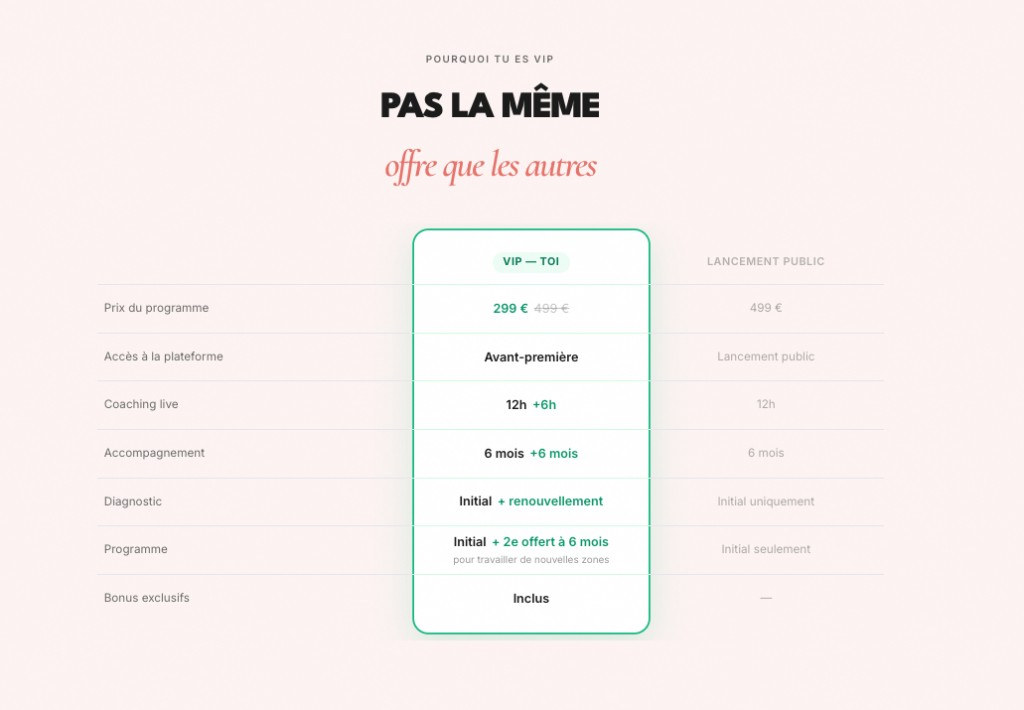
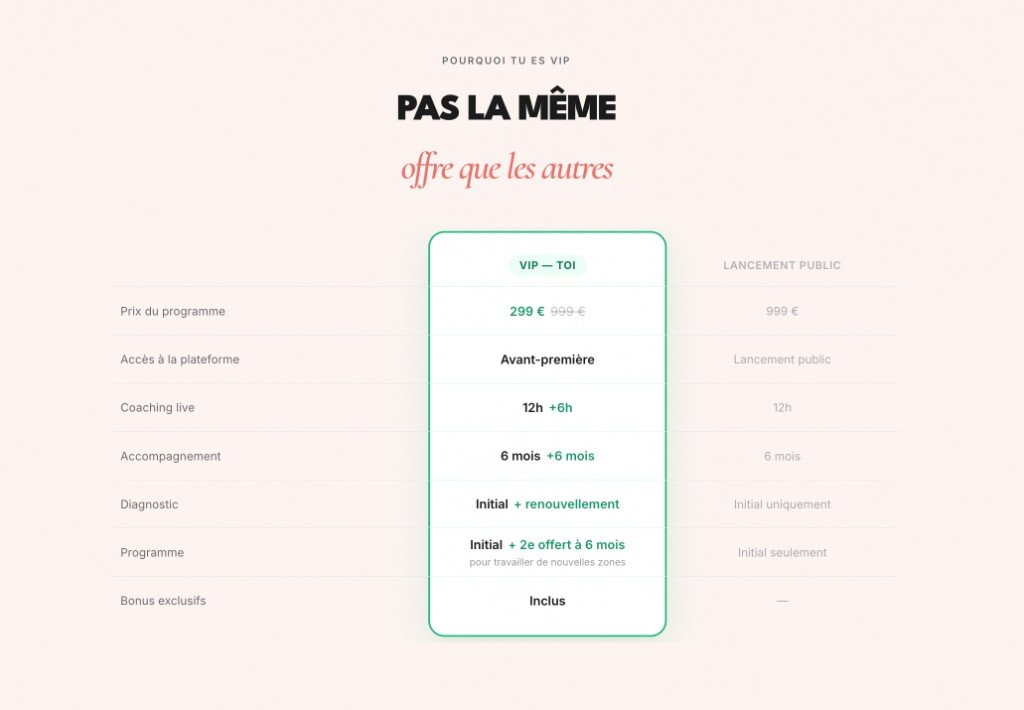
feat: afficher le VIP à 299 € face au public à 999 €
Le comparatif, le copy checkout et le visuel mail partagent la même ancre tarifaire, pour que la page et les campagnes VIP restent alignées.

diff --git a/src/components/vente-offre.jsx b/src/components/vente-offre.jsx
@@ -18,7 +18,7 @@ const OFFERS = {
       plan: 'vip-once',
       url: 'https://buy.stripe.com/7sY9AS2KtdrCcYF7aP8Zq0q',
       price: 299,
-      was: 499,
+      was: 999,
     },
     installments: [
       { plan: 'vip-3x', times: 3, amount: '99,99', url: 'https://buy.stripe.com/8x214mcl35Za1fX66L8Zq0r' },
@@ -45,8 +45,9 @@ const VIP_BONUSES = [
 ]
 
 // VIP / lancement public (plus de colonne « après lancement »).
+// Ancre marketing : VIP 299 € (999 € barré) vs lancement public 999 €.
 const COMPARE = [
-  { label: 'Prix du programme', vip: '299 €', was: '499 €', public: '499 €' },
+  { label: 'Prix du programme', vip: '299 €', was: '999 €', public: '999 €' },
   { label: 'Accès à la plateforme', vip: 'Avant-première', public: 'Lancement public' },
   { label: 'Coaching live', vip: '12h', bonus: '+6h', public: '12h' },
   { label: 'Accompagnement', vip: '6 mois', bonus: '+6 mois', public: '6 mois' },
@@ -445,7 +446,7 @@ export default function VenteOffre({ variant }) {
         title={isVip ? 'Offre VIP — Vente privée YoGyFace' : 'YoGyFace Studio — Programme'}
         description={
           isVip
-            ? 'Offre VIP exceptionnelle : 299 € au lieu de 499 €, accès en avant-première à l\'application, 18h de coaching et bonus réservés.'
+            ? 'Offre VIP exceptionnelle : 299 € au lieu de 999 €, accès en avant-première à l\'application, 18h de coaching et bonus réservés.'
             : 'Programme YoGyFace Studio : 499 €, diagnostic V2, nouveaux exercices, application et accompagnement personnalisé. Paiement en 1×, 4×, 6× ou 10×.'
         }
         path={path}
@@ -516,7 +517,7 @@ export default function VenteOffre({ variant }) {
               <ul className="text-left space-y-2 mb-6 max-w-md mx-auto md:mx-0">
                 {[
                   'Accès en avant-première à la plateforme',
-                  '299 € au lieu de 499 €',
+                  '299 € au lieu de 999 €',
                   '18h de coaching · 12 mois d\'accompagnement',
                 ].map((l) => (
                   <li key={l} className="flex items-start gap-2 text-[14px] text-noir/80">
@@ -550,7 +551,7 @@ export default function VenteOffre({ variant }) {
                 {offer.installments.length > 0 && (
                   <span className="block text-gris/50 text-sm mt-1">ou {installmentHint}</span>
                 )}
-                {isVip && <span className="block text-corail text-xs font-semibold mt-1">Tarif VIP — 200 € de moins que le public</span>}
+                {isVip && <span className="block text-corail text-xs font-semibold mt-1">Tarif VIP — 700 € de moins que le public</span>}
               </p>
             )}
             <PayCta

diff --git a/src/lib/stripe-offers.js b/src/lib/stripe-offers.js
@@ -14,7 +14,7 @@ export const STUDIO_10X_CENTS = 4999
 const PRODUCT_IMAGE = 'https://yogyface.fr/logo-yogyface-dark.png'
 
 const VIP_DESCRIPTION =
-  'Avant-première plateforme · 299 € au lieu de 499 € · 18h de coaching · 12 mois d’accompagnement · diagnostic + renouvellement'
+  'Avant-première plateforme · 299 € au lieu de 999 € · 18h de coaching · 12 mois d’accompagnement · diagnostic + renouvellement'
 
 const STUDIO_DESCRIPTION =
   'Programme YoGyFace Studio · 499 € · 12h de coaching · 6 mois d’accompagnement · diagnostic'

diff --git a/CHANGELOG.md b/CHANGELOG.md
@@ -4,13 +4,17 @@
 
 ### ✨ Added
 
+- **Mail 12 (M5 VIP)** : template AC `emails/launch/final/email12-m5-vip.html` — habitude 10 min, FOMO 48h, CTA `/vente-vip`, comparatif `mail-10-diagnostic.jpg`.
+- **Mail 11 (M4 soir VIP)** : template AC `emails/launch/final/email11-m4-soir-vip.html` — FOMO places, récap VIP, CTA `/vente-vip`, comparatif `mail-10-diagnostic.jpg`.
 - **Mail 10 (ouverture VIP)** : template AC `emails/launch/final/email10-ouverture-vip.html` — CTA `/vente-vip`, visuels mail-4 + mail-2-programme + `mail-10-diagnostic.jpg`.
 
 ### 🔧 Changed
 
+- **VIP** : 299 € au lieu de 999 € ; colonne lancement public à 999 € aussi. Mention « 700 € de moins que le public ».
+- **Mail 10/11 visuel** : `mail-10-diagnostic.jpg` remplacé (comparatif 299 / 999, même URL).
 - **CGV art. 6** : 14 jours dans tous les cas, pas de renonciation (pas de case au checkout). Situations exceptionnelles laissées vagues.
 - **CGV art. 11** : 12 lives, 2 par mois mini, dont 3 FAQ inclus dans les 12.
-- **`/vente-vip` comparatif** : colonne « Après lancement » retirée ; ligne Programme sous Diagnostic (2e programme offert à 6 mois). Prix VIP : 299 € en vert, 499 € barré.
+- **`/vente-vip` comparatif** : colonne « Après lancement » retirée ; ligne Programme sous Diagnostic (2e programme offert à 6 mois). Prix VIP : 299 € en vert, 999 € barré. Lancement public : 999 €.
 
 ## 2026-09-10
 
